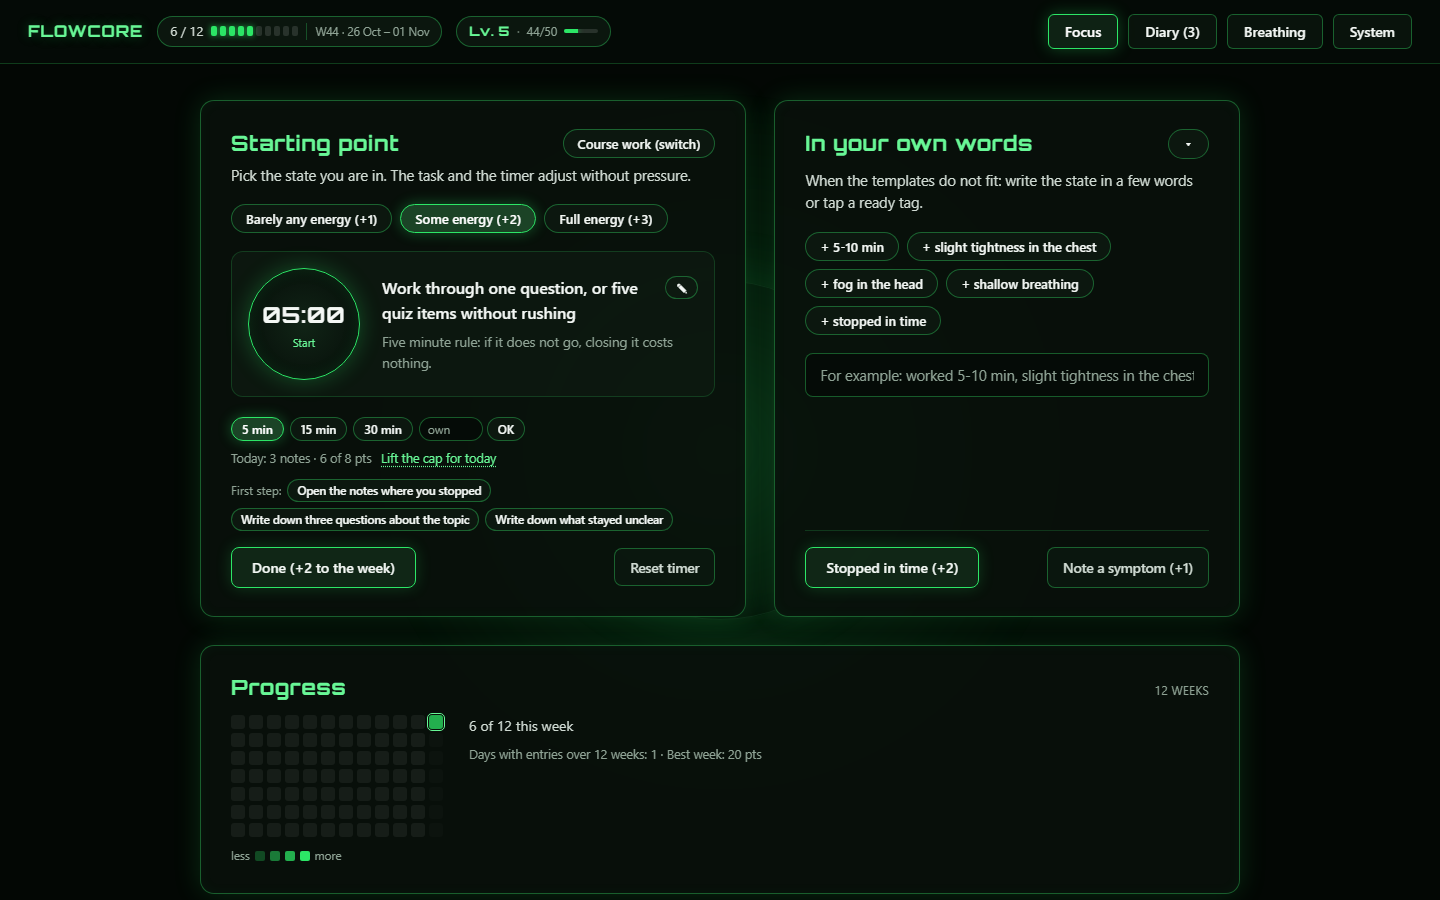
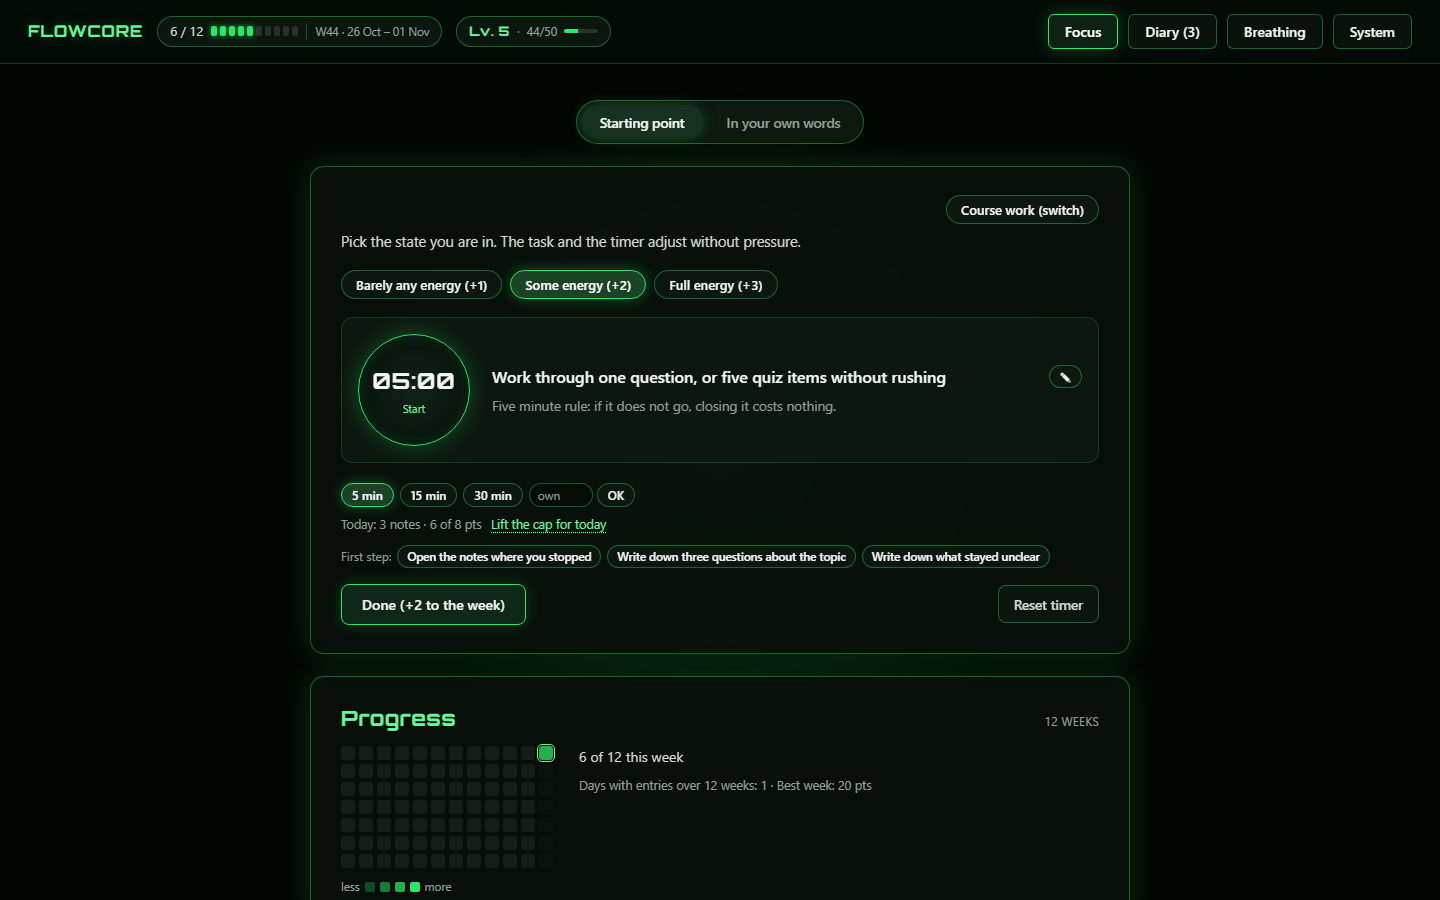
docs(flowcore): the shots and the text follow the single-card screen
The focus screen shows one card now, so the old images described a layout that
no longer exists. The text swaps the collapse paragraph for the switch, and the
numbers move with the file: 420 checks, 334 KB.

diff --git a/README.ru.md b/README.ru.md
@@ -8,7 +8,7 @@
 
 *English version: [README.md](README.md).*
 
-Выбери сферу, скажи, сколько сегодня сил, и сделай один пятиминутный шаг. Очки копятся на неделю, пропущенный день ничего не отнимает, а ранний стоп считается отдыхом, а не провалом. Всё приложение — один HTML-файл на 333 КБ: без сборки, сервера и зависимостей.
+Выбери сферу, скажи, сколько сегодня сил, и сделай один пятиминутный шаг. Очки копятся на неделю, пропущенный день ничего не отнимает, а ранний стоп считается отдыхом, а не провалом. Всё приложение — один HTML-файл на 334 КБ: без сборки, сервера и зависимостей.
 
 ## Что умеет
 
@@ -25,7 +25,7 @@
 
 **Заметка прямо у задачи.** Карандаш рядом с задачей открывает строку на месте, с восемью эмодзи, которые вставляются в текст. Заметка ложится в дневник под названием сферы и очков не даёт: это память, а не выполненный шаг. Ряд эмодзи необязателен и выключается в «Системе»; в быстрой пометке дневника те же восемь знаков.
 
-**Вторая карточка уходит с дороги.** «Своими словами» сворачивается в полосу и отдаёт ширину таймеру, выбор запоминается. По умолчанию она развёрнута: прятать способ записать — не моё решение.
+**Две карточки, один переключатель.** «Точка старта» и «Своими словами» меняются местами кнопкой над ними: выбранная карточка занимает всю ширину, вторая ждёт в одном нажатии, и выбор запоминается. На телефоне это один экран вместо прокрутки.
 
 **Мост после остановки.** Если остановился вчера — сверху появляется «вчера остановился на: …» и кнопка «начать 5 минут с этого места». Возврат в работу не требует вспоминать, где ты был.
 
@@ -116,7 +116,7 @@ python serve.py --lan      # доступ в домашней сети по http
 node tests/run.js
 ```
 
-Сейчас **415 проверок**: недельный ролловер и архив, миграция старых бэкапов, замок, дневной потолок и его снятие на день, уровень и скины, резерв, бонус отдыха, заметка к задаче и набор эмодзи, методики дыхания и фазы, шум с общим выключателем звука, экспорт в Markdown, редактор сфер, интервью первого запуска, словарь на четыре языка (все ключи из разметки и кода на месте, склонения через `Intl.PluralRules`). Тесты вырезают скрипт из настоящего `flowcore.html`, поэтому проверяют именно тот файл, который открывает браузер.
+Сейчас **420 проверок**: недельный ролловер и архив, миграция старых бэкапов, замок, дневной потолок и его снятие на день, уровень и скины, резерв, бонус отдыха, переключатель карточек, заметка к задаче и набор эмодзи, методики дыхания и фазы, шум с общим выключателем звука, экспорт в Markdown, редактор сфер, интервью первого запуска, словарь на четыре языка (все ключи из разметки и кода на месте, склонения через `Intl.PluralRules`). Тесты вырезают скрипт из настоящего `flowcore.html`, поэтому проверяют именно тот файл, который открывает браузер.
 
 Те же проверки запускаются на GitHub Actions при каждом push и pull request — файл `.github/workflows/tests.yml`. Сборки нет, поэтому шагов всего три: checkout, Node, `node tests/run.js`.
 
@@ -125,7 +125,7 @@ node tests/run.js
 - Интерфейс на четырёх языках — русский, украинский, английский, немецкий. Новый язык — это ещё одна колонка в словаре, но готового перевода на другие пока нет.
 - Данные живут в одном браузере: очистка профиля или «сайт-данных» их удалит. Раз в неделю стоит скачивать бэкап JSON.
 - Синхронизации между устройствами нет — это осознанно, чтобы не появлялось сервера и аккаунта.
-- Всё в одном файле: правки удобны, но файл уже большой — около 333 КБ, в gzip примерно 98 КБ.
+- Всё в одном файле: правки удобны, но файл уже большой — около 334 КБ, в gzip примерно 98 КБ.
 
 ## Лицензия
 

diff --git a/README.md b/README.md
@@ -8,7 +8,7 @@
 
 *Русская версия: [README.ru.md](README.ru.md).*
 
-Pick one of your areas, say how much energy you have today, and do a single five-minute step. Points collect over the week, a missed day takes nothing away, and an early stop counts as rest, not as failure. The whole app is one 333 KB HTML file: no build, no server, no dependencies.
+Pick one of your areas, say how much energy you have today, and do a single five-minute step. Points collect over the week, a missed day takes nothing away, and an early stop counts as rest, not as failure. The whole app is one 334 KB HTML file: no build, no server, no dependencies.
 
 ## What it does
 
@@ -25,7 +25,7 @@ If you are in a hurry:
 
 **A note on the task itself.** The pencil next to the task opens a line right there, with eight emoji that insert into the text. The note lands in the diary under the area's name and gives no points: it is memory, not a finished step. The row of emoji is optional and switches off in System; the quick note in the diary offers the same eight signs.
 
-**The second card steps aside.** "In your own words" collapses into a strip and hands its width to the timer, and the choice is remembered. It starts expanded, because hiding a way to log is not a decision to make for someone else.
+**Two cards, one switch.** "Starting point" and "In your own words" trade places through a switch above them: the chosen card takes the whole width, the other waits one tap away, and the choice is remembered. On a phone that is one screen instead of a scroll.
 
 **A bridge after stopping.** If you stopped yesterday, a line at the top says where, with one button that starts five minutes from that exact place. Coming back does not require remembering where you were.
 
@@ -116,7 +116,7 @@ On Windows, `FlowCore.cmd` does the same from a double click.
 node tests/run.js
 ```
 
-There are **415 checks**: week rollover and the archive, migration of older backups, the lock, the daily cap and lifting it for a day, level and skins, the reserve, the rest bonus, the task note and its emoji set, breathing techniques and their phases, noise under the master sound switch, Markdown export, the area editor, the first-run interview, and the dictionary in four languages (every key from the markup and the code exists, plurals go through `Intl.PluralRules`). The tests cut the script out of the real `flowcore.html`, so they check the file the browser actually opens.
+There are **420 checks**: week rollover and the archive, migration of older backups, the lock, the daily cap and lifting it for a day, level and skins, the reserve, the rest bonus, the card switch, the task note and its emoji set, breathing techniques and their phases, noise under the master sound switch, Markdown export, the area editor, the first-run interview, and the dictionary in four languages (every key from the markup and the code exists, plurals go through `Intl.PluralRules`). The tests cut the script out of the real `flowcore.html`, so they check the file the browser actually opens.
 
 The same checks run on GitHub Actions for every push and pull request, see `.github/workflows/tests.yml`. There is no build, so the job is three steps.
 
@@ -125,7 +125,7 @@ The same checks run on GitHub Actions for every push and pull request, see `.git
 - Four interface languages: Russian, Ukrainian, English, German. Another language is one more column in the dictionary, but no other translation exists yet.
 - Data lives in one browser. Clearing the profile or the site data removes it, so download a JSON backup every week or so.
 - There is no sync between devices, on purpose, so that no server and no account appear.
-- Everything is one file. Edits stay convenient, but the file is already large: about 333 KB, roughly 98 KB over the wire with gzip.
+- Everything is one file. Edits stay convenient, but the file is already large: about 334 KB, roughly 98 KB over the wire with gzip.
 
 ## License
 
